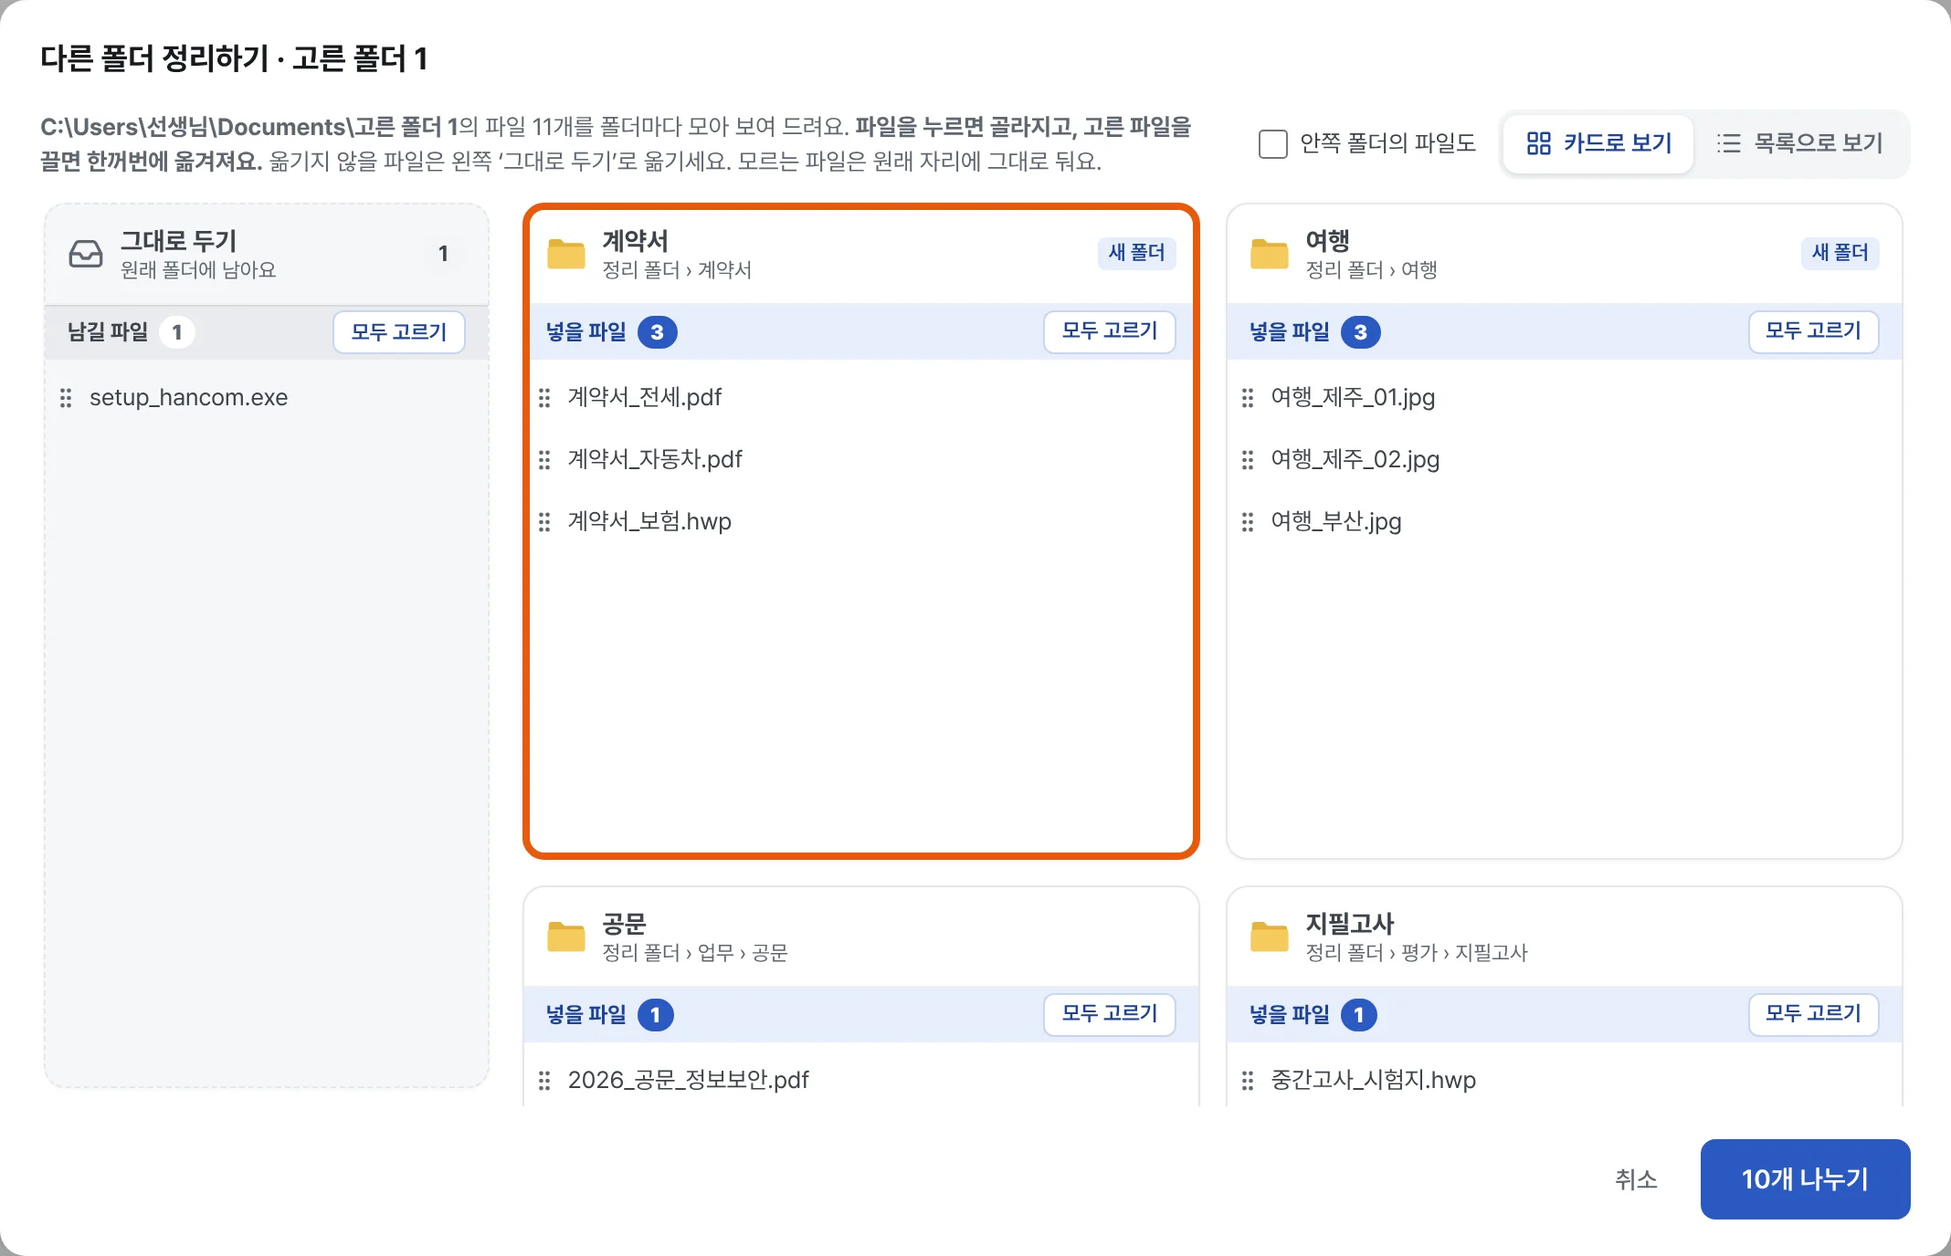
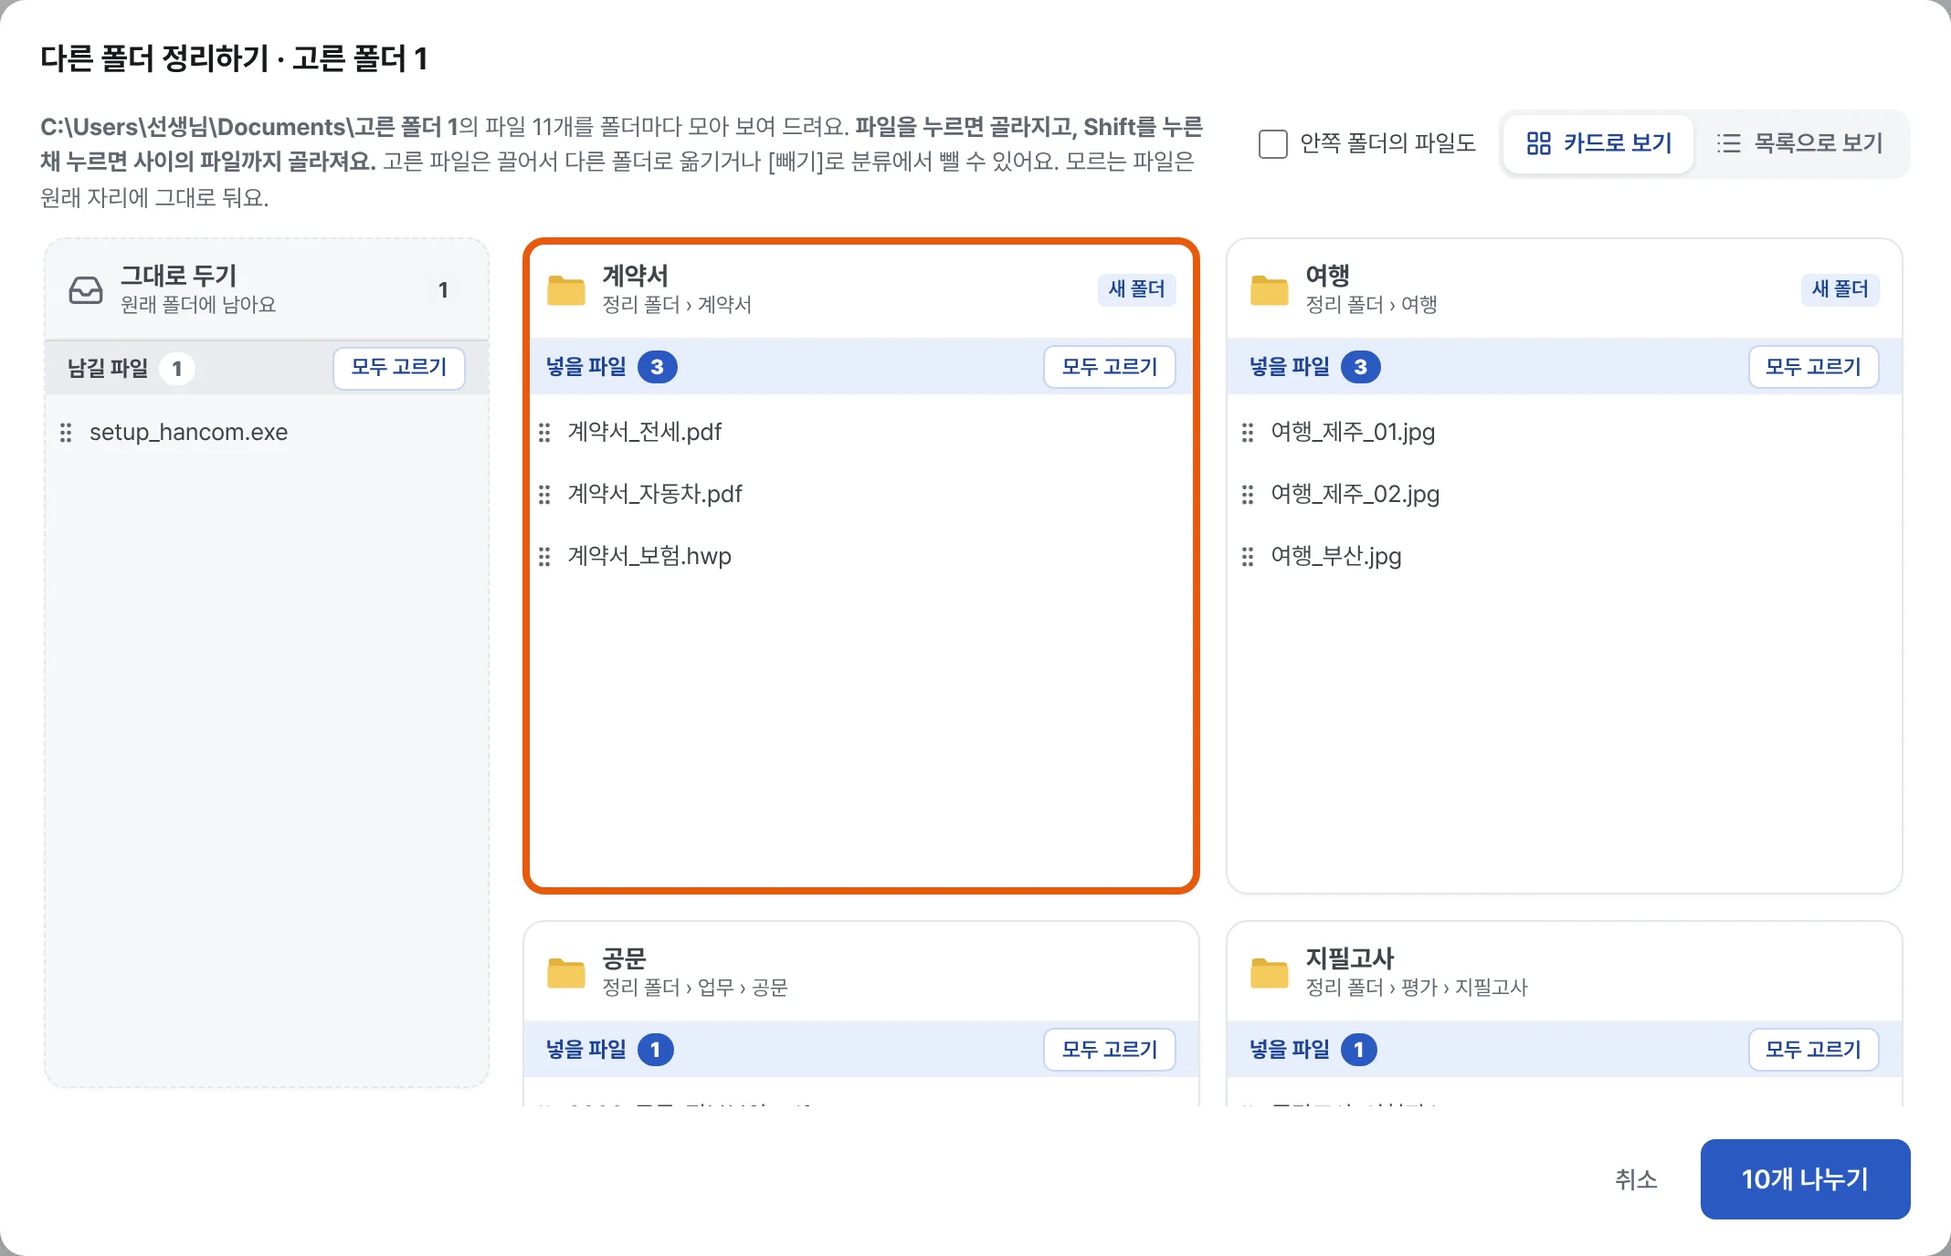
자동 분류: Shift로 사이 파일 고르기 + 분류에서 빼기 버튼 (#27)
- Shift를 누른 채 누르면 마지막으로 누른 파일부터 거기까지(같은 카드 안) 모두 고른다(사용자 요청).
- 고른 파일이 있는 폴더 카드의 띠에 [n개 빼기], 창 아래 [분류에서 빼기](전의 [정리함에 남기기로]).
  끌지 않고도 고른 파일을 왼쪽 칸으로 뺀다(사용자 요청).
- 안내 글, 설명서(장면·그림), SPEC 3-2 수정.

Claude-Session: https://claude.ai/code/session_01TC8Pbu5bQjk9y5TqXsKHr4

diff --git a/src/components/ClassifyDialog.tsx b/src/components/ClassifyDialog.tsx
@@ -12,7 +12,7 @@ import {
   type DragStartEvent,
 } from "@dnd-kit/core";
 import { followCursor } from "../lib/dnd";
-import { FolderPlus, GripVertical, Inbox, LayoutGrid, List, RotateCcw } from "lucide-react";
+import { CircleMinus, FolderPlus, GripVertical, Inbox, LayoutGrid, List, RotateCcw } from "lucide-react";
 import { classifyPreview, errorMessage, folderClassifyPreview, listFiles, listFolders } from "../lib/backend";
 import { baseName, displayPath } from "../lib/paths";
 import { reasonLabel } from "../lib/rules";
@@ -81,6 +81,8 @@ export default function ClassifyDialog({ paths, source, root, separator, onClose
   const [truncated, setTruncated] = useState(false);
   /** 고른 파일(파란색). 끌면 다 같이 옮겨진다 */
   const [selected, setSelected] = useState<Set<string>>(new Set());
+  /** Shift로 사이를 고를 때의 기준(마지막으로 그냥 누른 파일) */
+  const [anchor, setAnchor] = useState<string | null>(null);
   /** 직접 옮긴 파일 → 넣을 폴더(INBOX = 정리함에 남기기) */
   const [overrides, setOverrides] = useState<Map<string, string>>(new Map());
   /** 카드 순서(끌어 옮겨도 카드 자리는 그대로): 파일이 추천된 폴더 → (정리함에 남기기) → 정리 폴더 안의 나머지 폴더 */
@@ -197,6 +199,28 @@ export default function ClassifyDialog({ paths, source, root, separator, onClose
       return next;
     });
 
+  /**
+   * 파일을 눌렀을 때: 그냥 누르면 하나 고르기·풀기, Shift를 누른 채 누르면 Windows 탐색기처럼
+   * 마지막으로 누른 파일부터 여기까지(같은 카드 안) 모두 고른다.
+   */
+  const pickFile = (list: ClassifyPlan[], path: string, shift: boolean) => {
+    const from = anchor ? list.findIndex((p) => p.path === anchor) : -1;
+    const to = list.findIndex((p) => p.path === path);
+    if (shift && from >= 0 && to >= 0) {
+      const [a, b] = from < to ? [from, to] : [to, from];
+      selectMany(list.slice(a, b + 1).map((p) => p.path), true);
+      return;
+    }
+    toggleSelect(path);
+    setAnchor(path);
+  };
+
+  /** 고르기를 모두 푼다 */
+  const clearSelection = () => {
+    setSelected(new Set());
+    setAnchor(null);
+  };
+
   const addCard = (dest: string) => setCards((c) => (c.includes(dest) ? c : [...c, dest]));
 
   const moveTo = (plan: ClassifyPlan, dest: string) => {
@@ -229,13 +253,15 @@ export default function ClassifyDialog({ paths, source, root, separator, onClose
     const dest = data?.dest ?? data?.path;
     if (!dest) return;
     for (const p of moving) if (dest !== destOf(p)) moveTo(p, dest);
-    setSelected(new Set());
+    clearSelection();
   };
 
-  /** 고른 파일을 왼쪽 칸(정리함에 남기기 · 그대로 두기)으로 */
-  const leaveSelected = () => {
-    for (const p of selectedPlans) if (destOf(p) !== INBOX) moveTo(p, INBOX);
-    setSelected(new Set());
+  /** 분류에서 빼기: 고른 파일(`list`가 있으면 그중 그 카드의 것만)을 왼쪽 칸(정리함에 남기기 · 그대로 두기)으로 */
+  const leaveSelected = (list?: ClassifyPlan[]) => {
+    const out = (list ?? selectedPlans).filter((p) => selected.has(p.path) && destOf(p) !== INBOX);
+    for (const p of out) moveTo(p, INBOX);
+    if (list) selectMany(out.map((p) => p.path), false);
+    else clearSelection();
   };
 
   const run = () => {
@@ -276,6 +302,8 @@ export default function ClassifyDialog({ paths, source, root, separator, onClose
         count={list.length}
         allSelected={allSelected(list)}
         onAll={(on) => selectMany(list.map((p) => p.path), on)}
+        picked={list.filter((p) => selected.has(p.path)).length}
+        onLeave={() => leaveSelected(list)}
         existing={existing.get(dest) ?? []}
       >
         {list.length === 0 && <li className="classify__empty">여기로 끌어다 놓으세요</li>}
@@ -286,7 +314,7 @@ export default function ClassifyDialog({ paths, source, root, separator, onClose
             selected={selected.has(p.path)}
             moved={overrides.has(p.path)}
             why={overrides.has(p.path) ? "직접 옮김" : p.target ? reasonLabel(p.target.reason) : ""}
-            onSelect={() => toggleSelect(p.path)}
+            onSelect={(shift) => pickFile(list, p.path, shift)}
             onReset={() => moveTo(p, p.target?.destDir ?? INBOX)}
           />
         ))}
@@ -320,7 +348,7 @@ export default function ClassifyDialog({ paths, source, root, separator, onClose
               ? `${cardName(root, p.target.destDir, separator)}에서 뺌`
               : "구별 못 함"
           }
-          onSelect={() => toggleSelect(p.path)}
+          onSelect={(shift) => pickFile(left, p.path, shift)}
           onReset={() => moveTo(p, p.target?.destDir ?? INBOX)}
         />
       ))}
@@ -351,15 +379,21 @@ export default function ClassifyDialog({ paths, source, root, separator, onClose
       actions={
         <>
           {selected.size > 0 ? (
-            // 고른 파일이 있으면: n개 고름 · [정리함에 남기기로] [고르기 풀기]
+            // 고른 파일이 있으면: n개 고름 · [분류에서 빼기] [고르기 풀기]
             <div className="classify__selbar">
               <span className="classify__selbar-text">{selected.size}개 고름</span>
               {selectedPlans.some((p) => destOf(p) !== INBOX) && (
-                <button type="button" className="btn" onClick={leaveSelected}>
-                  {leftName}로
+                <button
+                  type="button"
+                  className="btn"
+                  onClick={() => leaveSelected()}
+                  title={`고른 파일을 왼쪽 ‘${leftName}’로 옮겨요`}
+                >
+                  <CircleMinus size={15} aria-hidden="true" />
+                  분류에서 빼기
                 </button>
               )}
-              <button type="button" className="btn btn--ghost" onClick={() => setSelected(new Set())}>
+              <button type="button" className="btn btn--ghost" onClick={clearSelection}>
                 고르기 풀기
               </button>
             </div>
@@ -386,14 +420,15 @@ export default function ClassifyDialog({ paths, source, root, separator, onClose
           <p className="dialog__sub">
             <strong>{displayPath(root, source.dir, separator)}</strong>
             {plans ? `의 파일 ${plans.length}개를` : "의 파일을"} 폴더마다 모아 보여 드려요.{" "}
-            <strong>파일을 누르면 골라지고, 고른 파일을 끌면 한꺼번에 옮겨져요.</strong> 옮기지 않을 파일은 왼쪽
-            ‘그대로 두기’로 옮기세요. 모르는 파일은 원래 자리에 그대로 둬요.
+            <strong>파일을 누르면 골라지고, Shift를 누른 채 누르면 사이의 파일까지 골라져요.</strong> 고른 파일은
+            끌어서 다른 폴더로 옮기거나 [빼기]로 분류에서 뺄 수 있어요. 모르는 파일은 원래 자리에 그대로 둬요.
             {truncated && " 파일이 많아 앞의 2,000개만 보여요."}
           </p>
         ) : (
           <p className="dialog__sub">
-            폴더마다 들어갈 파일을 모아 보여 드려요. <strong>파일을 누르면 골라지고, 고른 파일을 끌면 한꺼번에 옮겨져요.</strong>{" "}
-            넣지 않을 파일은 왼쪽 ‘정리함에 남기기’로 옮기세요. 없는 폴더는 새로 만들고, 나눈 뒤에도 되돌릴 수 있어요.
+            폴더마다 들어갈 파일을 모아 보여 드려요.{" "}
+            <strong>파일을 누르면 골라지고, Shift를 누른 채 누르면 사이의 파일까지 골라져요.</strong> 고른 파일은 끌어서
+            다른 폴더로 옮기거나 [빼기]로 분류에서 뺄 수 있어요. 없는 폴더는 새로 만들고, 나눈 뒤에도 되돌릴 수 있어요.
           </p>
         )}
         <div className="classify__opts">
@@ -514,6 +549,8 @@ function Card({
   count,
   allSelected,
   onAll,
+  picked = 0,
+  onLeave,
   inbox,
   existing = [],
   children,
@@ -527,6 +564,10 @@ function Card({
   allSelected?: boolean;
   /** 이 카드의 파일을 모두 고르거나(true) 고른 것을 푼다(false) */
   onAll?: (on: boolean) => void;
+  /** 이 카드에서 고른 파일 수(폴더 카드에서 [n개 빼기]) */
+  picked?: number;
+  /** 이 카드에서 고른 파일을 분류에서 뺀다 */
+  onLeave?: () => void;
   inbox?: boolean;
   /** 이 폴더에 이미 있는 파일 */
   existing?: FileEntry[];
@@ -562,9 +603,22 @@ function Card({
           hint={
             count > 0 &&
             onAll && (
-              <button type="button" className="classify__all" onClick={() => onAll(!allSelected)}>
-                {allSelected ? "고르기 풀기" : "모두 고르기"}
-              </button>
+              <span className="classify__band-btns">
+                {picked > 0 && onLeave && (
+                  <button
+                    type="button"
+                    className="classify__all"
+                    onClick={onLeave}
+                    title="고른 파일을 이 폴더에 넣지 않아요(왼쪽 칸으로)"
+                  >
+                    <CircleMinus size={13} aria-hidden="true" />
+                    {picked}개 빼기
+                  </button>
+                )}
+                <button type="button" className="classify__all" onClick={() => onAll(!allSelected)}>
+                  {allSelected ? "고르기 풀기" : "모두 고르기"}
+                </button>
+              </span>
             )
           }
         />
@@ -599,7 +653,8 @@ function FileRow({
   selected: boolean;
   moved: boolean;
   why: string;
-  onSelect: () => void;
+  /** shift = Shift를 누른 채 눌렀는지(사이의 파일까지 고르기) */
+  onSelect: (shift: boolean) => void;
   onReset: () => void;
 }) {
   const { attributes, listeners, setNodeRef, isDragging } = useDraggable({ id: `classify-file:${plan.path}`, data: { plan } });
@@ -613,11 +668,11 @@ function FileRow({
       role="button"
       aria-pressed={selected}
       aria-label={`${plan.name} ${selected ? "고름" : "고르기"}`}
-      onClick={onSelect}
+      onClick={(e) => onSelect(e.shiftKey)}
       onKeyDown={(e) => {
         if (e.key === " " || e.key === "Enter") {
           e.preventDefault();
-          onSelect();
+          onSelect(e.shiftKey);
         }
       }}
     >

diff --git a/docs/manual/index.html b/docs/manual/index.html
@@ -535,8 +535,8 @@
       alt: "지필고사 카드의 파일 두 개를 눌러 파란색으로 고르고, 한꺼번에 공문 카드로 끄는 모습. 아래에 2개 고름",
       title: "여러 개는 눌러 골라서 한꺼번에",
       body: [
-        "파일을 ==누르면 파란색으로 골라져요==. 다시 누르면 풀려요. 카드의 [[모두 고르기]]로 그 폴더 파일을 다 고를 수도 있어요.",
-        "고른 파일 하나를 잡고 끌면 ==고른 파일이 다 같이== 옮겨져요. 넣지 않을 파일은 고른 뒤 아래 [[정리함에 남기기로]].",
+        "파일을 ==누르면 파란색으로 골라져요==. 다시 누르면 풀려요. ==Shift를 누른 채 누르면== 사이의 파일까지 한꺼번에 골라져요. 카드의 [[모두 고르기]]로 그 폴더 파일을 다 고를 수도 있어요.",
+        "고른 파일 하나를 잡고 끌면 ==고른 파일이 다 같이== 옮겨져요. 넣지 않을 파일은 고른 뒤 카드의 [[2개 빼기]]나 아래 [[분류에서 빼기]]를 누르세요.",
       ],
       tip: "끄는 동안 ‘외 2’처럼 함께 옮겨지는 파일 수가 보여요." },
 

diff --git a/src/components/ClassifyDialog.css b/src/components/ClassifyDialog.css
@@ -477,8 +477,17 @@
   }
 }
 
-/* 넣을 파일 띠 오른쪽 [모두 해제]/[모두 체크] */
+/* 넣을 파일 띠 오른쪽 [n개 빼기] [모두 고르기]/[고르기 풀기] */
+.classify__band-btns {
+  display: inline-flex;
+  flex-wrap: nowrap;
+  gap: 6px;
+}
+
 .classify__all {
+  display: inline-flex;
+  align-items: center;
+  gap: 4px;
   min-height: 24px;
   padding: 0 9px;
   border: 1px solid var(--color-accent-line);

diff --git a/docs/SPEC.md b/docs/SPEC.md
@@ -56,7 +56,7 @@
 - 왼쪽 파일 칸: 맨 위 **[정리할 파일 n | 최근 정리]** 두 칸, 그 아래 폴더 탭(전체·다운로드·바탕화면…), 체크박스·배지·이름·출처와 시각, 추천 위치 + [넣기], ‘모두 선택’ 줄 오른쪽에 [자동 분류](시안의 [추천대로 모두]를 대신함: 미리보기 창에서 넣을 폴더별로 보여 주고, 옮기거나 빼고, 확인하면 한꺼번에 넣음 — 4-1). 미리보기 창은 프로그램 창을 거의 다 채운다(창을 키우면 같이 커짐, 사용자 요청), 위 버튼으로 보는 방식을 고른다(고른 것을 기억함, 사용자 요청):
     - **카드로 보기**(기본): 넣을 폴더마다 네모 카드(포스트잇을 줄 맞춰 붙인 것처럼) 안에 그 폴더로 갈 파일. **모든 카드는 같은 크기**(360px, 줄 맞춰 깔끔하게, 사용자 요청. 폴더가 많으면 줄이 늘고 판 안에서 내려 봄)이고 넣을 파일이 많으면 카드 안에서 내려 본다. 파란 띠 "넣을 파일 n" 아래에 넣을 파일, 회색 띠 "이미 있는 파일 n" 아래에 **그 폴더에 이미 있는 파일**(회색 바탕, 칸마다 따로 내려 봄. 넣을 파일 칸은 이미 있는 파일이 있을 때 딱 3줄 높이까지 — 반 줄이 걸치지 않게)을 보여 줘서 무엇이 들어 있는 폴더인지 보고 나눌 수 있다(사용자 요청). 이미 있는 파일은 끌거나 고를 수 없다(보기만). 판 전체가 내려가고, 끄는 동안 판 끝에 대면 저절로 내려간다. 카드 이름은 마지막 폴더(연도·학기·학급 폴더면 뜻 있는 위 폴더까지 "수행평가 › 2026 › 2학기"). **"정리함에 남기기"는 왼쪽에 창 높이만큼 길게**(그 안에서 내려 봄, 사용자 요청) 두고, 남은 오른쪽 공간에 폴더 카드를 놓는다. 오른쪽만 내려 보며 왼쪽은 그대로라, 왼쪽에서 파일을 집어 오른쪽 폴더에 놓기 쉽다. 폴더 카드 끝에 [+ 폴더 추가](목록에 없는 폴더를 골라 빈 카드를 만듦). 끄는 동안 카드 자리는 바뀌지 않는다. 정리 폴더 안의 폴더는 추천된 파일이 없어도 **늘 카드로 보인다**(오른쪽 순서: 추천된 폴더 → 나머지 폴더 → 폴더 추가). 안쪽 폴더는 [+ 폴더 추가]로.
     - **목록으로 보기**: 왼쪽은 폴더별 묶음 목록(따로 내려감), 오른쪽은 정리함과 같은 폴더 격자(제자리, 누르면 안으로).
-    - **체크 상자 없이 '누르기' 하나로**(사용자 결정): 파일을 누르면 골라지고(파란색), 다시 누르면 풀린다. 고른 파일 하나를 끌면 **고른 파일이 다 같이** 옮겨진다(끄는 동안 "자료_03.pdf 외 2"). 카드마다 띠 오른쪽 [모두 고르기]/[고르기 풀기]. 고른 파일이 있으면 창 아래 왼쪽에 "n개 고름 · [정리함에 남기기로](다시 정리하기는 [그대로 두기로]) [고르기 풀기]". **폴더 카드에 있는 파일은 모두 나누고**, 왼쪽 칸의 파일만 옮기지 않는다([n개 나누기]의 n). 왼쪽 칸으로 뺀 파일에는 "PDF에서 뺌"처럼 원래 폴더가 보이고 ↺로 되돌린다. 예전의 체크 끄기·[모두 해제]·[전체 체크 해제]는 없앴다(체크를 꺼도 그 카드에 남아 하나씩 옮겨야 했음 — 사용자 보고).
+    - **체크 상자 없이 '누르기' 하나로**(사용자 결정): 파일을 누르면 골라지고(파란색), 다시 누르면 풀린다. 고른 파일 하나를 끌면 **고른 파일이 다 같이** 옮겨진다(끄는 동안 "자료_03.pdf 외 2"). 카드마다 띠 오른쪽 [모두 고르기]/[고르기 풀기]. **Shift를 누른 채 누르면** Windows 탐색기처럼 마지막으로 누른 파일부터 거기까지(같은 카드 안) 모두 고른다(사용자 요청). **분류에서 빼기**(사용자 요청: 끌지 않고 빼게): 고른 파일이 있는 폴더 카드의 띠에 [n개 빼기], 창 아래 왼쪽에 "n개 고름 · [분류에서 빼기] [고르기 풀기]" — 고른 파일을 왼쪽 칸(정리함에 남기기, 다시 정리하기는 그대로 두기)으로 옮긴다. **폴더 카드에 있는 파일은 모두 나누고**, 왼쪽 칸의 파일만 옮기지 않는다([n개 나누기]의 n). 왼쪽 칸으로 뺀 파일에는 "PDF에서 뺌"처럼 원래 폴더가 보이고 ↺로 되돌린다. 예전의 체크 끄기·[모두 해제]·[전체 체크 해제]는 없앴다(체크를 꺼도 그 카드에 남아 하나씩 옮겨야 했음 — 사용자 보고).
     - 두 보기 모두 **파일을 끌어 다른 폴더(카드·묶음·폴더 격자·정리함에 남기기)에 놓으면 그 파일만 넣을 곳이 바뀐다**("직접 옮김", ↺ 원래대로, [옮긴 것 모두 되돌리기]). 직접 옮긴 파일은 규칙·자동 분류 기록 없이 일반 넣기로 넣는다(사용자 요청).
 - 오른쪽 폴더 칸: 경로 + 폴더 아이콘 격자(누르면 안으로), 위에 숫자 키가 붙은 "자주 쓰는 폴더".
 - **폴더 안 파일**(사용자 요청): 폴더 격자 아래에 지금 폴더 바로 안의 파일(배지·이름·고친 날짜·크기, 최근순/이름순 — 고른 정렬은 이 PC에 기억). 지금 연 폴더 하나만 디스크에서 읽고(폴더 칸의 "파일 n개"를 셀 때도 같은 목록을 읽으므로 더 무겁지 않음), 미리보기 그림은 만들지 않는다. 300개까지 그리고 나머지는 탐색기에서 보도록 안내. 정리 폴더와 그 안쪽만 읽는다.
